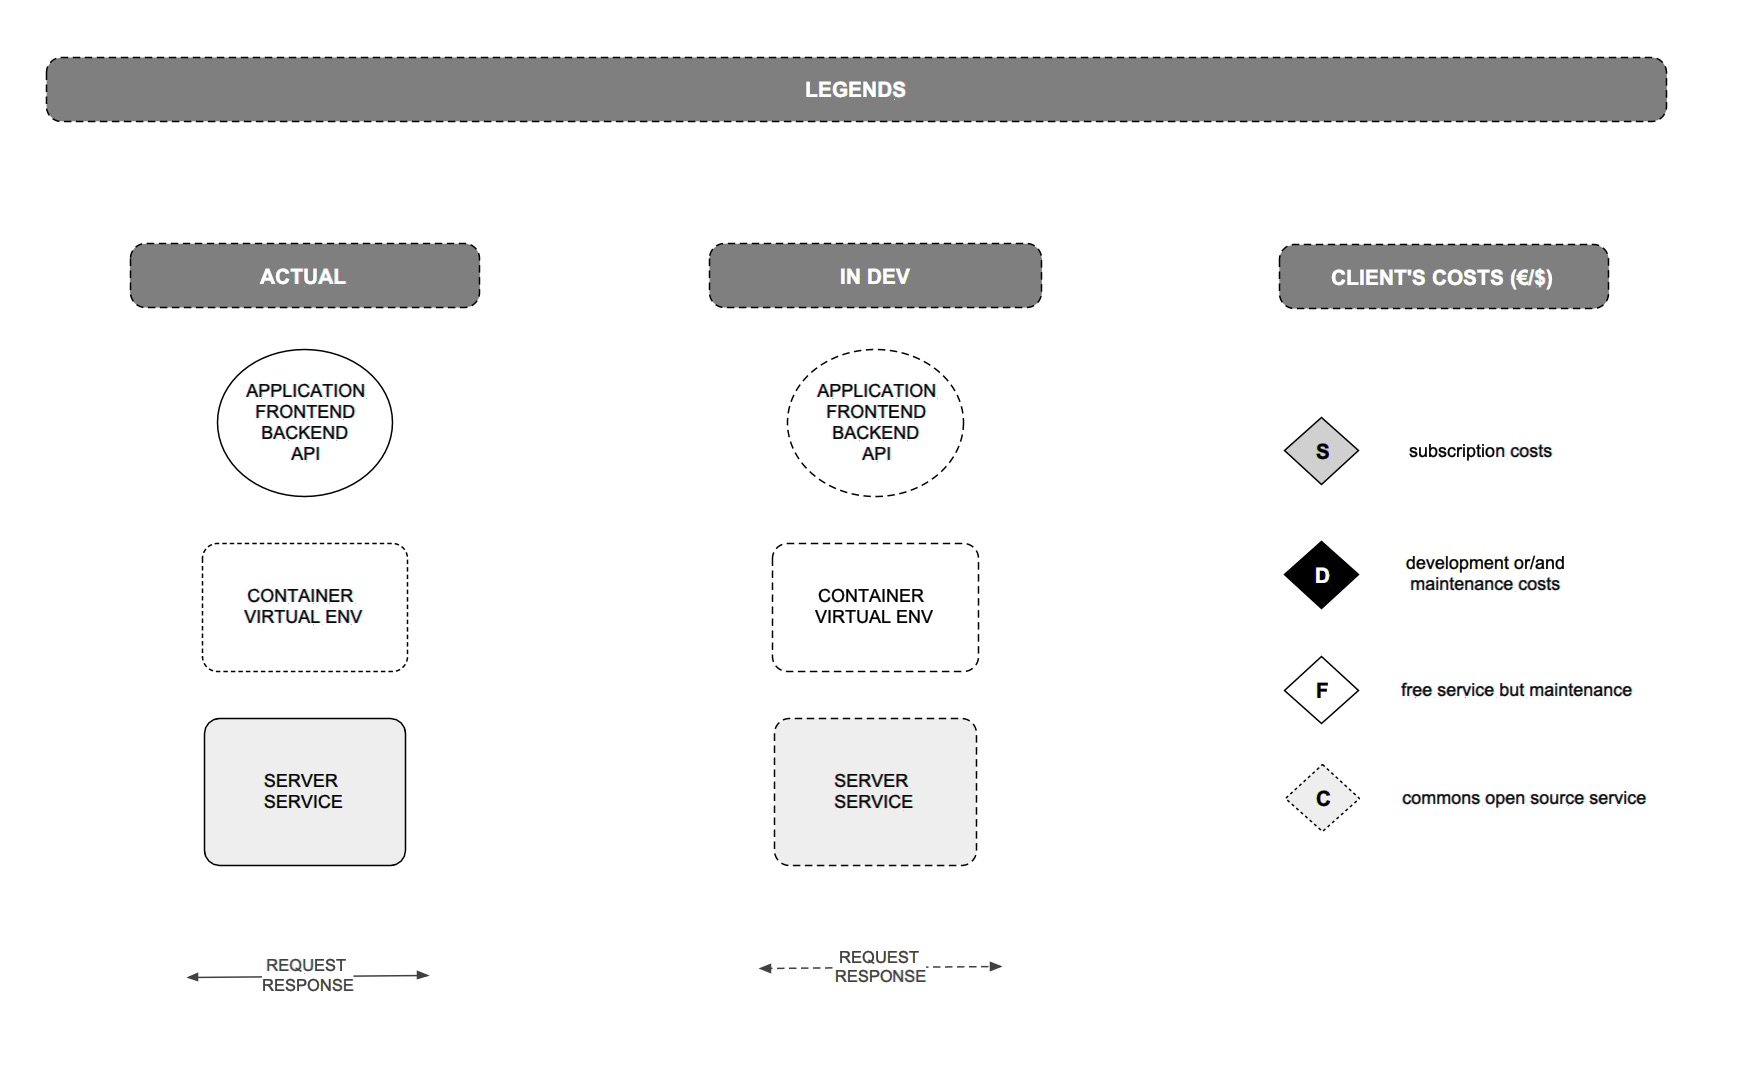
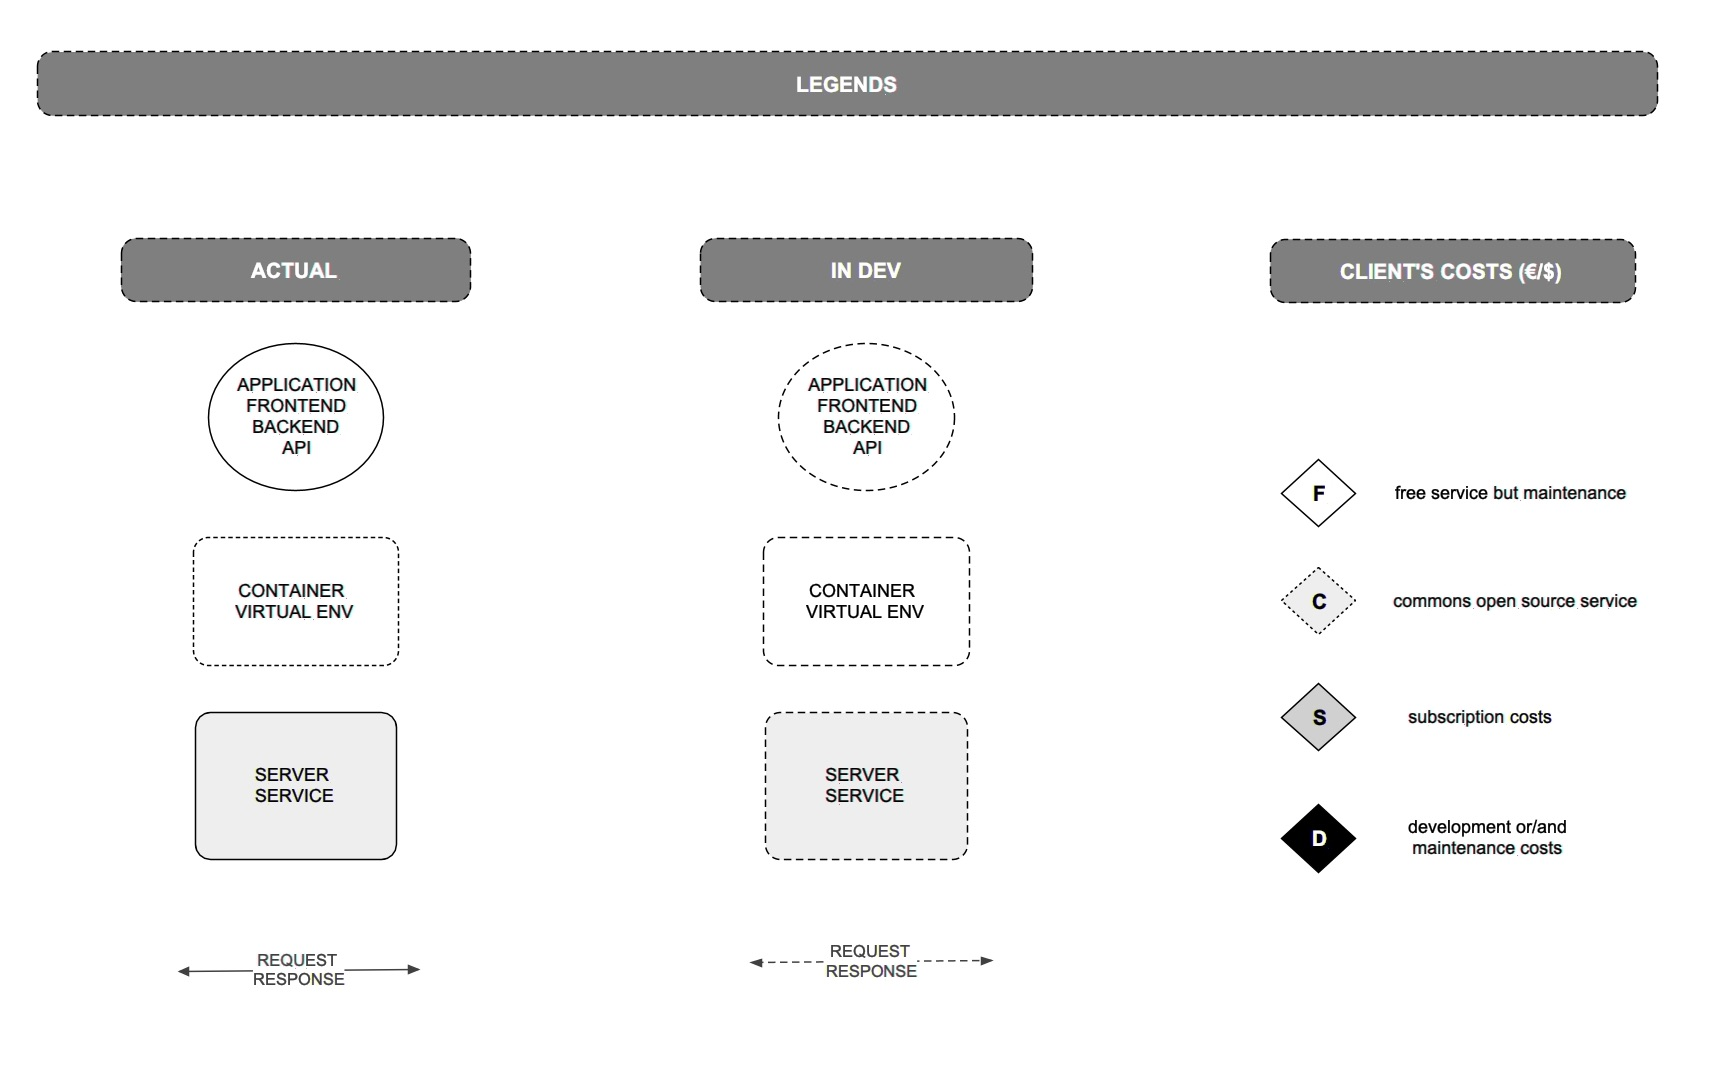
update readme

diff --git a/README.md b/README.md
@@ -423,3 +423,28 @@ In the following illustration you can grasp a more detailed comprehension of how
 <h2 align=center>
 	<img src="./documentation/configurations/APIVIZ CONFIGURATIONS-export-details-full.jpg">
 </h2>
+
+---------
+
+## DEPLOYMENT CONFIGURATIONS
+
+--------
+
+#### LEGEND
+<h2 align=center>
+	<img src="./documentation/configurations/APIVIZ CONFIGURATIONS-export-legends.jpg">
+</h2>
+
+------
+
+#### DEPLOYMENT AS FULL MUTUALIZED MICROSERVICES SYTEM
+<h2 align=center>
+	<img src="./documentation/configurations/APIVIZ CONFIGURATIONS-export-paas-D.jpg">
+</h2>
+
+------
+
+#### DEPLOYMENT AS FULL CLIENT SOVEREIGNETY ON SERVICES 
+<h2 align=center>
+	<img src="./documentation/configurations/APIVIZ CONFIGURATIONS-export-server-C.jpg">
+</h2>
